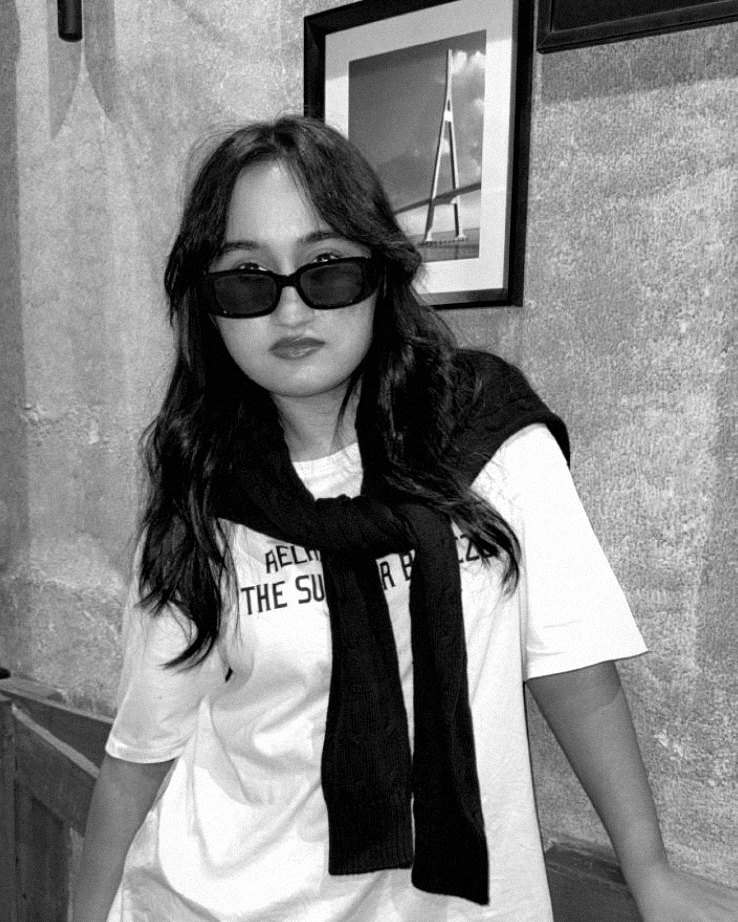
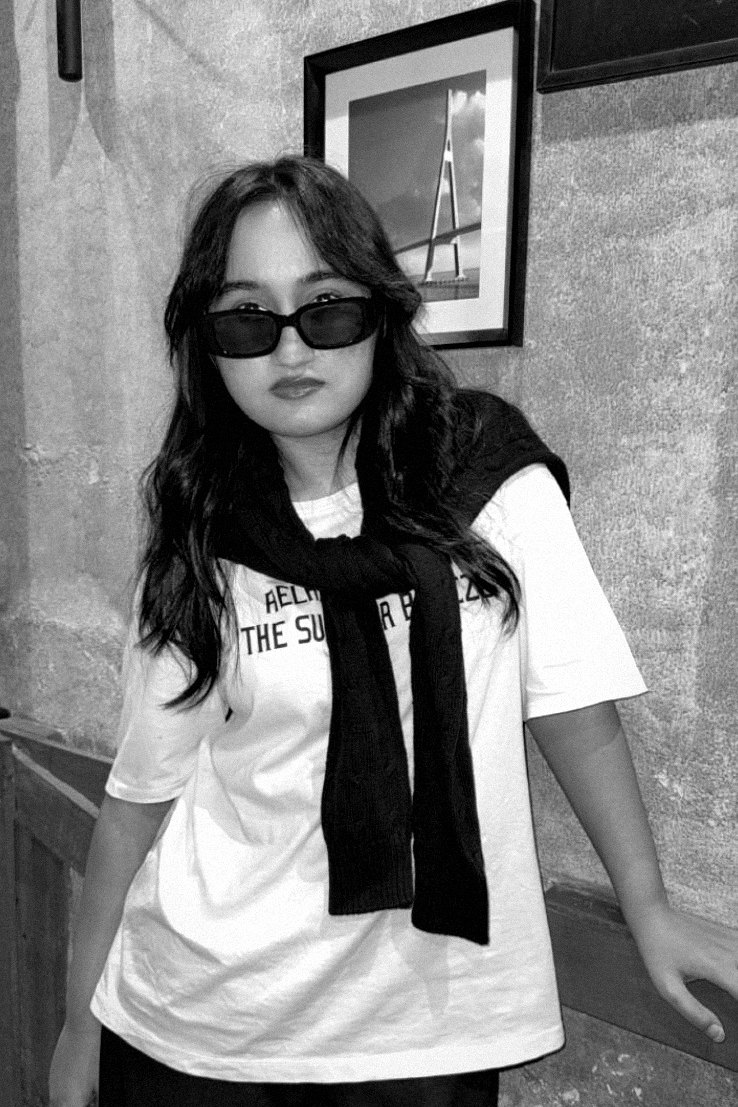
Founder section: show more of the portrait (less crop)
Claude-Session: https://claude.ai/code/session_01NVWLGrbTwz6cZqzPe2QDQV

diff --git a/index.html b/index.html
@@ -135,7 +135,7 @@ section{padding-block:clamp(80px,10vw,140px)}
 .portal-wrap{filter:drop-shadow(0 0 18px rgba(255,236,215,.75)) drop-shadow(0 0 60px rgba(255,225,195,.35));max-width:460px;width:100%;justify-self:center;animation:breathe 6s ease-in-out infinite}
 @keyframes breathe{50%{filter:drop-shadow(0 0 26px rgba(255,236,215,.9)) drop-shadow(0 0 80px rgba(255,225,195,.45))}}
 .portal-photo{aspect-ratio:1/1;max-width:100%;background:radial-gradient(circle at 50% 40%,#151517,#000 70%);clip-path:polygon(92.3% 50.0%, 97.2% 57.6%, 93.1% 64.3%, 92.1% 71.9%, 86.7% 77.2%, 80.2% 80.8%, 74.0% 83.7%, 70.3% 90.5%, 63.6% 92.5%, 57.0% 95.3%, 50.0% 98.1%, 42.4% 99.1%, 37.1% 90.7%, 29.3% 91.4%, 22.5% 88.6%, 18.0% 82.7%, 13.2% 77.3%, 5.9% 72.9%, 4.3% 65.2%, 4.6% 57.3%, 5.8% 50.0%, 7.5% 43.1%, 8.6% 36.3%, 8.6% 28.5%, 13.5% 23.0%, 16.2% 15.6%, 22.5% 11.3%, 28.5% 7.0%, 36.5% 7.5%, 43.3% 6.9%, 50.0% 4.6%, 57.0% 5.1%, 63.9% 6.3%, 71.6% 6.8%, 77.8% 11.0%, 82.6% 16.8%, 89.7% 20.6%, 88.9% 29.8%, 92.7% 35.9%, 94.5% 42.8%);display:grid;place-items:center;text-align:center;color:#8e8e93;font-size:13px;line-height:1.6}
-.fz-port .portal-photo.is-photo{clip-path:none;aspect-ratio:4/5;border-radius:20px;overflow:hidden;background:#000;box-shadow:0 30px 80px rgba(0,0,0,.55)}.fz-port:has(.is-photo){filter:none}
+.fz-port .portal-photo.is-photo{clip-path:none;aspect-ratio:2/3;border-radius:20px;overflow:hidden;background:#000;box-shadow:0 30px 80px rgba(0,0,0,.55)}.fz-port:has(.is-photo){filter:none;width:clamp(220px,28vw,380px)}
 .portal-photo img{width:100%;height:100%;object-fit:cover}
 .founder .eyebrow{display:block;margin-bottom:14px}
 .founder h2{margin:0;font-family:var(--display);font-weight:800;font-size:clamp(44px,6.4vw,92px);letter-spacing:-.03em;line-height:.95}
@@ -788,7 +788,7 @@ html.light #silkZone .silk-bg::after{background:linear-gradient(180deg,var(--bg)
           <div class="fz-big" id="fzBig"><em>meet the</em><b><span>f</span><span>o</span><span>u</span><span>n</span><span>d</span><span>e</span><span>r</span></b></div>
           <div class="fz-port" id="fzPort">
             <!-- PHOTO: to use your photo, replace the <img> below with <img src="your-photo.jpg" alt="Umme Ruman" style="width:100%;height:100%;object-fit:cover"> -->
-            <div class="portal-photo is-photo"><img src="/assets/founder-umme-ruman.jpg" alt="Umme Ruman, Founder &amp; CEO of Rumi Byte" width="738" height="922" loading="lazy" decoding="async" style="width:100%;height:100%;object-fit:cover;object-position:50% 30%"></div>
+            <div class="portal-photo is-photo"><img src="/assets/founder-umme-ruman.jpg" alt="Umme Ruman, Founder &amp; CEO of Rumi Byte" width="738" height="1107" loading="lazy" decoding="async" style="width:100%;height:100%;object-fit:cover;object-position:50% 30%"></div>
           </div>
         </div></div>
         <div class="fz-ui">
